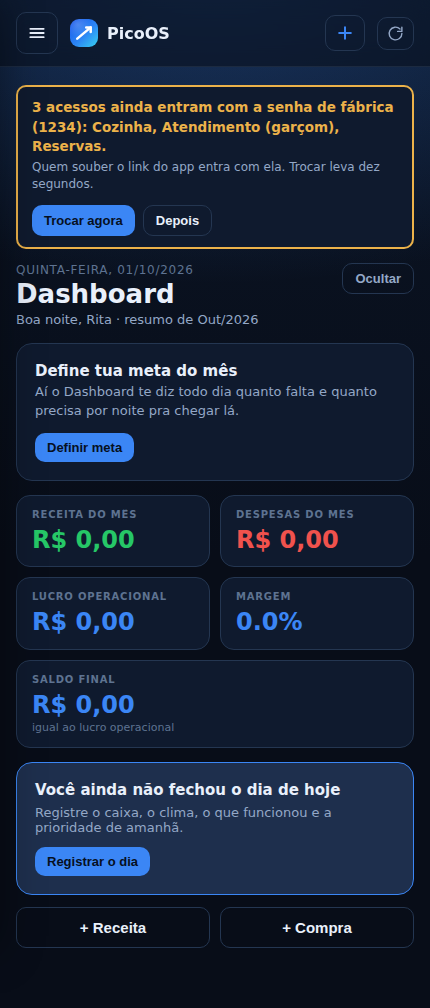
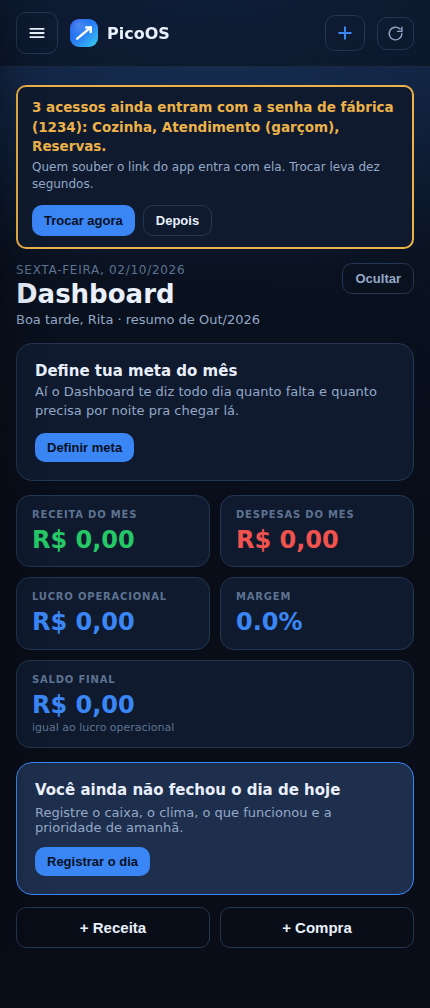
O espaço invisível que trancava a dona fora da sala de máquinas (#468)
* O roteiro da virada, pra executar com o bar fechado

Juntar as duas instalações num app só. O caminho mudou pra melhor depois
que a gente viu que o Estimado tem 2 linhas e as duas estão vazias: não há
nada dele pra mover, então o banco compartilhado passa a ser o do Pico do
Mané e os 407 registros NÃO saem do lugar. É o de menor risco que existe.

Cinco blocos com tempo estimado, lista de conferência, o que muda pra as
pessoas (endereço, código na entrada, nome do negócio somindo da tela de
entrada e por quê) e como voltar atrás em cada ponto.

Inclui o aviso que custou dez minutos ontem: conferir o nome da variável
ANTES de salvar, porque nome de variável não se edita depois de criada.

Claude-Session: https://claude.ai/code/session_01Nfg85dtAgim3kecZWb3CVn

* O espaço invisível que trancava a dona fora da sala de máquinas

A senha da sala é digitada num campo da Vercel, de um iPad. O teclado do
iOS põe espaço depois de completar palavra sem avisar. Esse caractere
invisível fazia a senha não bater — e a tela só dizia "Senha incorreta",
sem nenhuma pista do motivo. Aconteceu de verdade, na primeira vez que a
sala foi usada.

O espaço passa a ser aparado dos DOIS lados: do que está guardado (já era)
e do que é digitado (não era). A maiúscula não se apara — senha é senha, e
baixar tudo pra minúscula enfraqueceria a única porta que abre a casa de
todos os clientes de uma vez.

E a mensagem de erro passa a dizer o que ninguém adivinha: que o teclado do
[…]

Changed region(s): [[0.0302, 0.246, 0.4535, 0.2768], [0.3023, 0.3075, 0.6047, 0.3383], [0.1209, 0.3075, 0.2721, 0.3383]]

diff --git a/components/Console.js b/components/Console.js
@@ -103,7 +103,19 @@ export default function Console() {
                 <input type="password" value={senha} onChange={(ev) => { setSenha(ev.target.value); setErro(''); }}
                   autoFocus autoCapitalize="none" autoCorrect="off" spellCheck="false" style={inputStyle} />
               </Field>
-              {erro && <div style={{ color: C.red, fontSize: 13, marginBottom: 12, marginTop: -6 }}>{erro}</div>}
+              {/* A senha daqui foi digitada num campo da Vercel, provavelmente
+                  de um iPad — onde o teclado capitaliza a primeira letra
+                  sozinho. Errar por isso e não ter nenhuma pista do motivo é o
+                  tipo de coisa que faz a pessoa achar que o sistema quebrou. */}
+              {erro && (
+                <div style={{ color: C.red, fontSize: 13, marginBottom: 12, marginTop: -6, lineHeight: 1.5 }}>
+                  {erro}
+                  <span style={{ display: 'block', color: C.faint, fontSize: 12, marginTop: 5 }}>
+                    No celular e no iPad o teclado costuma pôr <b>maiúscula na primeira letra</b> sem
+                    avisar — inclusive lá na Vercel, quando a senha foi guardada. Vale tentar com e sem.
+                  </span>
+                </div>
+              )}
               <Btn kind="primary" type="submit">Entrar</Btn>
             </form>
           </Card>

diff --git a/lib/auth.js b/lib/auth.js
@@ -211,9 +211,19 @@ export function ehAdmin(valorCookie) {
   return igualConstante(valorCookie, valorSessaoAdmin());
 }
 
+// O ESPAÇO QUE NINGUÉM VÊ.
+//
+// A senha daqui é digitada num campo da Vercel, de um iPad. O teclado do iOS
+// põe espaço depois de completar palavra e capitaliza a primeira letra sozinho,
+// sem avisar. O espaço a gente apara dos dois lados — do que foi guardado e do
+// que é digitado —, senão a pessoa fica fora da própria sala de máquinas por um
+// caractere invisível, e sem nenhuma pista do que aconteceu.
+//
+// A maiúscula NÃO se apara: senha é senha, e baixar tudo pra minúscula
+// enfraqueceria a única porta que abre a casa de todos os clientes de uma vez.
 export function senhaAdminConfere(senha) {
   if (!consoleLigado()) return false;
-  const a = String(senha == null ? '' : senha);
+  const a = String(senha == null ? '' : senha).trim();
   const b = (process.env.ADMIN_PASSWORD || '').trim();
   return igualConstante(
     crypto.createHash('sha256').update(a).digest('hex'),

diff --git a/VIRADA-APP-UNICO.md b/VIRADA-APP-UNICO.md
@@ -1,0 +1,129 @@
+# A virada: juntar os dois num app só
+
+Roteiro para executar **com o bar fechado**. Uns 30 minutos.
+
+> **Por que agora dá pra fazer do jeito fácil:** o Estimado tem 2 linhas e as
+> duas estão vazias. Não há nada dele para mover. Então o banco compartilhado
+> passa a ser **o do Pico do Mané**, e os 407 registros da Karen **não saem do
+> lugar**. É o caminho de menor risco que existe.
+
+---
+
+## Antes de começar, à mão
+
+- [ ] A senha da **sala de máquinas** (longa, só tua, não usada em outro lugar)
+- [ ] A senha que vai ser a da **dona do Pico do Mané** (pode ser a de hoje)
+- [ ] A senha que vai ser a da **dona do Estimado** (nova, pra mandar pra eles)
+
+---
+
+## A — Ligar a sala de máquinas · 5 min
+
+1. Vercel → **teu projeto** → Settings → Environments → **Production** →
+   **Add Environment Variable**
+
+   | campo | valor |
+   |---|---|
+   | Key | `ADMIN_PASSWORD` |
+   | Value | a senha da sala de máquinas |
+   | Type | **Secret** ← esta é senha de verdade |
+   | Ambientes | Production + Preview |
+
+2. **Confere o nome antes de salvar.** Foi aqui que a gente perdeu dez minutos
+   na última vez (`NEGCIO_UNICO`, sem o O). Nome de variável não se edita depois
+   de criada — apaga e cria de novo.
+
+3. Deployments → **Redeploy**
+
+Nada muda para ninguém. Só passa a existir o endereço `/admin`.
+
+---
+
+## B — Criar os dois negócios · 5 min
+
+4. Abre o teu endereço com **`/admin`** no fim. Entra com a `ADMIN_PASSWORD`.
+
+5. Cria os dois:
+
+   | código | nome | senha |
+   |---|---|---|
+   | `pico-do-mane` | Pico do Mané | a tua |
+   | `estimado` | Estimado | a nova, pra mandar |
+
+   ⚠ Criar o `pico-do-mane` **não toca nos dados**. Só cria o registro e guarda
+   a senha. Os 407 registros ficam onde estão.
+
+   A tela mostra, uma vez só, o que mandar para cada pessoa. Copia antes de
+   fechar.
+
+---
+
+## C — Virar · 5 min
+
+6. Vercel → **apaga** a variável `NEGOCIO_UNICO`
+7. Settings → General → **renomeia o projeto** para `picoos`
+   (se estiver em uso: `picoos-app` ou `meupicoos`)
+8. **Redeploy**
+
+---
+
+## D — Conferir · 10 min
+
+- [ ] `picoos.vercel.app` abre, e a tela de entrada pede **código do negócio**
+- [ ] Código `pico-do-mane` + senha → **Dashboard, Receitas e Estoque iguais ao de antes**
+- [ ] Código `estimado` + senha → abre **vazio**, na tela de boas-vindas
+- [ ] Links novos do **Google Agenda** e do **widget**, pegos dentro do app e reconectados
+- [ ] **Configurações → Acessos**: senhas da equipe trocadas
+      (podem ter voltado ao `1234` — o app avisa na tela até trocar)
+- [ ] Ícone reinstalado no iPad e nos celulares
+
+Se o Dashboard abrir **vazio**, não é perda de dado: é o código do negócio
+escrito diferente do que está no banco. Para conferir, no SQL Editor:
+
+```sql
+select count(*) filter (where chave like 'n:pico-do-mane:%') as certas,
+       count(*) as total
+from pdm_dados;
+```
+
+Os dois números têm que ser iguais.
+
+---
+
+## E — Limpar · 5 min
+
+9. Apaga o projeto `picoos-estimado` na **Vercel**
+10. Apaga o projeto `estimado` no **Supabase** → ✅ **libera um projeto grátis**
+11. Avisa o pessoal do Estimado: endereço novo, código `estimado`, senha nova
+
+---
+
+## O que muda para as pessoas
+
+- **O endereço muda para todo mundo.** Quem tem o app na tela inicial precisa
+  apagar e pôr de novo. Uma vez só.
+- **Passa a existir um código** na tela de entrada. Fica guardado no aparelho;
+  digita uma vez.
+- **O nome do negócio some da tela de entrada.** É de propósito: num app de
+  muitos, mostrar o nome deixaria qualquer um na internet descobrir quem são os
+  clientes. O nome aparece depois de entrar.
+
+---
+
+## Se precisar voltar atrás
+
+Antes do passo C, é só apagar os dois negócios na sala de máquinas.
+
+Depois do passo C: repõe `NEGOCIO_UNICO=pico-do-mane` na Vercel e republica. Os
+dados nunca saíram do lugar, então não há nada a restaurar.
+
+---
+
+## Quando terminar
+
+Um app, dois negócios dentro, e o terceiro cliente passa a ser **um formulário**
+— sem Supabase, sem Vercel, sem chave nenhuma.
+
+O que ainda falta antes do primeiro cliente **pagante** está em
+`MAPA-APP-UNICO.md`: os planos pagos (a Vercel Hobby não cobre uso comercial), o
+preço, e o ensaio da sala de máquinas com um negócio de mentira.
